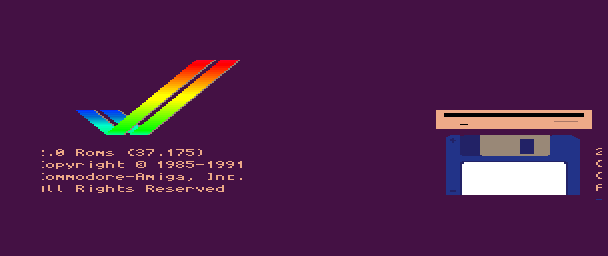
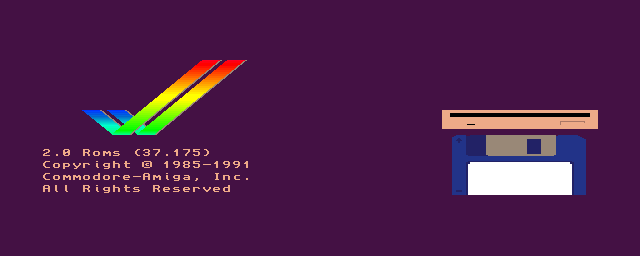
Fix hires text shift by switching to deferred copybpl model
The KS 2.04 boot screen showed ":0 Roms" instead of "2.0 Roms" — text
shifted right with left-edge characters wrapping around. The root cause
was incorrect shift register load timing: we barrel-shifted data into
the shift register immediately on BPL1DAT fetch, but real Denise (and
WinUAE) uses a deferred model where BPL1DAT stores data in a holding
latch, and the actual copy happens when a horizontal counter matches
the BPLCON1 scroll value.

Three timing fixes in the Denise comparator:
- Use beam_x directly as comparator phase (not beam_x >> 1 for hires),
  matching WinUAE's hcycle-rate denise_hcounter_cmp
- Tick the comparator on every output call, not just odd beam_x
- Wire up queue_shift_load_from_bpl1dat() instead of trigger_shift_load()

Also fixes hires resolution: each output call now independently composes
both source pixels from the shift pair, writing 4 distinct hires pixels
per CCK instead of 2 doubled pairs. This matches real Denise where the
shift register produces one pixel per hcycle.

Adds boot screenshot tests for KS 2.05 (A600HD) and KS 3.1 (A500).

Entire-Checkpoint: 2cf7335e2fb1

Changed region(s): [[0.6875, 0.4062, 1.0, 0.7812], [0.0625, 0.5625, 0.4062, 0.75], [0.125, 0.2188, 0.4062, 0.5312]]

diff --git a/crates/machine-amiga/tests/boot_kickstart.rs b/crates/machine-amiga/tests/boot_kickstart.rs
@@ -4622,6 +4622,164 @@ fn test_boot_kick204_a500plus_screenshot() {
     }
 }
 
+#[test]
+#[ignore] // Requires real KS 2.05 ROM
+fn test_boot_kick205_a600hd_screenshot() {
+    let ks_path = "../../roms/kick205_37_300_a600hd.rom";
+    let rom = match fs::read(ks_path) {
+        Ok(r) => r,
+        Err(_) => {
+            eprintln!("KS 2.05 ROM not found at {ks_path}, skipping");
+            return;
+        }
+    };
+
+    let mut amiga = Amiga::new_with_config(AmigaConfig {
+        model: AmigaModel::A500Plus,
+        chipset: AmigaChipset::Ecs,
+        region: AmigaRegion::Pal,
+        kickstart: rom,
+    });
+
+    println!(
+        "Reset: SSP=${:08X} PC=${:08X} SR=${:04X}",
+        amiga.cpu.regs.ssp, amiga.cpu.regs.pc, amiga.cpu.regs.sr
+    );
+
+    let total_ticks: u64 = 850_000_000;
+    let report_interval: u64 = 28_375_160;
+    let mut last_report = 0u64;
+
+    for i in 0..total_ticks {
+        amiga.tick();
+
+        if i % 4 != 0 || i - last_report < report_interval {
+            continue;
+        }
+        last_report = i;
+        let elapsed_s = i as f64 / 28_375_160.0;
+        println!(
+            "[{:.1}s] tick={} PC=${:08X} V={} H={}",
+            elapsed_s, i, amiga.cpu.regs.pc, amiga.agnus.vpos, amiga.agnus.hpos,
+        );
+    }
+
+    // Save raster framebuffer screenshot
+    {
+        use machine_amiga::commodore_denise_ocs::ViewportPreset;
+
+        let viewport = amiga
+            .denise
+            .extract_viewport(ViewportPreset::Standard, true, true);
+        let raster_path = std::path::Path::new("../../test_output/amiga_boot_kick205_raster.png");
+        let file = fs::File::create(raster_path).expect("create raster screenshot file");
+        let ref mut w = std::io::BufWriter::new(file);
+        let mut encoder = png::Encoder::new(w, viewport.width, viewport.height);
+        encoder.set_color(png::ColorType::Rgba);
+        encoder.set_depth(png::BitDepth::Eight);
+        let mut writer = encoder.write_header().expect("write raster PNG header");
+        let mut rgba = Vec::with_capacity((viewport.width * viewport.height * 4) as usize);
+        for &pixel in &viewport.pixels {
+            rgba.push(((pixel >> 16) & 0xFF) as u8);
+            rgba.push(((pixel >> 8) & 0xFF) as u8);
+            rgba.push((pixel & 0xFF) as u8);
+            rgba.push(((pixel >> 24) & 0xFF) as u8);
+        }
+        writer
+            .write_image_data(&rgba)
+            .expect("write raster PNG data");
+        println!(
+            "Raster screenshot saved to {} ({}x{})",
+            raster_path.display(),
+            viewport.width,
+            viewport.height
+        );
+    }
+
+    // Sanity: display should be active (BPLEN set in DMACON)
+    println!("DMACON = ${:04X}", amiga.agnus.dmacon);
+    println!("BPLCON0 = ${:04X}", amiga.denise.bplcon0);
+}
+
+#[test]
+#[ignore] // Requires real KS 3.1 ROM
+fn test_boot_kick31_a500_screenshot() {
+    let ks_path = "../../roms/kick31_40_063_a500_a600_a2000.rom";
+    let rom = match fs::read(ks_path) {
+        Ok(r) => r,
+        Err(_) => {
+            eprintln!("KS 3.1 ROM not found at {ks_path}, skipping");
+            return;
+        }
+    };
+
+    let mut amiga = Amiga::new_with_config(AmigaConfig {
+        model: AmigaModel::A500Plus,
+        chipset: AmigaChipset::Ecs,
+        region: AmigaRegion::Pal,
+        kickstart: rom,
+    });
+
+    println!(
+        "Reset: SSP=${:08X} PC=${:08X} SR=${:04X}",
+        amiga.cpu.regs.ssp, amiga.cpu.regs.pc, amiga.cpu.regs.sr
+    );
+
+    let total_ticks: u64 = 850_000_000;
+    let report_interval: u64 = 28_375_160;
+    let mut last_report = 0u64;
+
+    for i in 0..total_ticks {
+        amiga.tick();
+
+        if i % 4 != 0 || i - last_report < report_interval {
+            continue;
+        }
+        last_report = i;
+        let elapsed_s = i as f64 / 28_375_160.0;
+        println!(
+            "[{:.1}s] tick={} PC=${:08X} V={} H={}",
+            elapsed_s, i, amiga.cpu.regs.pc, amiga.agnus.vpos, amiga.agnus.hpos,
+        );
+    }
+
+    // Save raster framebuffer screenshot
+    {
+        use machine_amiga::commodore_denise_ocs::ViewportPreset;
+
+        let viewport = amiga
+            .denise
+            .extract_viewport(ViewportPreset::Standard, true, true);
+        let raster_path = std::path::Path::new("../../test_output/amiga_boot_kick31_raster.png");
+        let file = fs::File::create(raster_path).expect("create raster screenshot file");
+        let ref mut w = std::io::BufWriter::new(file);
+        let mut encoder = png::Encoder::new(w, viewport.width, viewport.height);
+        encoder.set_color(png::ColorType::Rgba);
+        encoder.set_depth(png::BitDepth::Eight);
+        let mut writer = encoder.write_header().expect("write raster PNG header");
+        let mut rgba = Vec::with_capacity((viewport.width * viewport.height * 4) as usize);
+        for &pixel in &viewport.pixels {
+            rgba.push(((pixel >> 16) & 0xFF) as u8);
+            rgba.push(((pixel >> 8) & 0xFF) as u8);
+            rgba.push((pixel & 0xFF) as u8);
+            rgba.push(((pixel >> 24) & 0xFF) as u8);
+        }
+        writer
+            .write_image_data(&rgba)
+            .expect("write raster PNG data");
+        println!(
+            "Raster screenshot saved to {} ({}x{})",
+            raster_path.display(),
+            viewport.width,
+            viewport.height
+        );
+    }
+
+    // Sanity: display should be active (BPLEN set in DMACON)
+    println!("DMACON = ${:04X}", amiga.agnus.dmacon);
+    println!("BPLCON0 = ${:04X}", amiga.denise.bplcon0);
+}
+
 /// Decode and print a copper list from chip RAM.
 fn decode_copper_list(chip_ram: &[u8], start_addr: u32, max_instructions: usize) {
     let mut addr = start_addr;

diff --git a/crates/commodore-denise-ocs/src/lib.rs b/crates/commodore-denise-ocs/src/lib.rs
@@ -31,6 +31,10 @@ pub struct DeniseOutputPixelDebug {
     pub pair_samples: [DeniseSourcePixelDebug; 2],
     pub plane_bits_mask: u8,
     pub final_color_idx: u8,
+    /// In hires mode, the two independently-composed color indices for the
+    /// pair of source pixels shifted out during this output call. In lores
+    /// mode, both entries are set to `final_color_idx`.
+    pub hires_pair_color_idx: [u8; 2],
     pub playfield_visible_gate: bool,
 }
 
@@ -528,21 +532,6 @@ impl DeniseOcs {
         self.clxdat |= bits;
     }
 
-    fn sprite_has_priority_over_playfield(
-        &self,
-        sprite_group: usize,
-        playfield: PlayfieldId,
-    ) -> bool {
-        // PFxP2..PFxP0 select playfield placement among the four sprite
-        // priority groups. Values >4 are invalid; clamp.
-        let pf_pos = match playfield {
-            PlayfieldId::Pf1 => usize::from(self.bplcon2 & 0x0007),
-            PlayfieldId::Pf2 => usize::from((self.bplcon2 >> 3) & 0x0007),
-        }
-        .min(4);
-        sprite_group < pf_pos
-    }
-
     fn compose_playfield_pixel(
         &self,
         raw_color_idx: usize,
@@ -903,18 +892,14 @@ impl DeniseOcs {
         let mut pf1_code = 0u8;
         let mut pf2_code = 0u8;
         let mut plane_bits_mask = 0u8;
-        // Denise's horizontal comparator (`denise_hcounter_cmp` in WinUAE) is
-        // a CCK-rate counter, not a half-CCK/subpixel counter. In this model
-        // `beam_x` advances twice per CCK, so use `beam_x >> 1` for BPLCON1
+        // Denise's horizontal comparator (`denise_hcounter_cmp` in WinUAE)
+        // increments once per hcycle. In our model `beam_x` advances once per
+        // output call (= once per hcycle), so use it directly as the BPLCON1
         // pending-load comparator phase.
-        let comparator_phase = if hires {
-            (beam_x >> 1) as u16
-        } else {
-            beam_x as u16
-        };
+        let comparator_phase = beam_x as u16;
 
         let copy_before_shift = hires && denise_experiment_hires_copy_before_shift();
-        let comparator_tick_this_call = !hires || (beam_x & 1) != 0;
+        let comparator_tick_this_call = true;
         if copy_before_shift && comparator_tick_this_call {
             self.apply_pending_shift_load_if_due(comparator_phase);
         }
@@ -946,6 +931,9 @@ impl DeniseOcs {
             self.apply_pending_shift_load_if_due(comparator_phase);
         }
 
+        // Compose playfield pixel for the "last" sample (used for final_color_idx
+        // and lores output). In hires mode we also compose the first sample
+        // independently for the per-pixel hires_pair_color_idx.
         let playfield = if playfield_visible_gate {
             self.compose_playfield_pixel(raw_color_idx, pf1_code, pf2_code)
         } else {
@@ -963,17 +951,45 @@ impl DeniseOcs {
             },
             sprite_group_mask,
         );
-        let mut color_idx = playfield.visible_color_idx;
-        if let Some(sprite_pixel) = self.sprite_pixel(beam_x, beam_y) {
-            if let Some(front_pf) = playfield.front_playfield {
-                if self.sprite_has_priority_over_playfield(sprite_pixel.sprite_group, front_pf) {
-                    color_idx = sprite_pixel.palette_idx;
+
+        // Sprite lookup (lores resolution — same sprite for both hires sub-pixels).
+        let sprite_pixel = self.sprite_pixel(beam_x, beam_y);
+
+        // Cache BPLCON2 priority positions for sprite resolution (avoids
+        // re-borrowing &self through a closure while &mut self is live).
+        let bplcon2 = self.bplcon2;
+
+        let resolve_sprite_priority = |pf: &PlayfieldPixel, sp: &Option<SpritePixel>| -> usize {
+            let mut c = pf.visible_color_idx;
+            if let Some(s) = sp {
+                if let Some(front_pf) = pf.front_playfield {
+                    let pf_pos = match front_pf {
+                        PlayfieldId::Pf1 => usize::from(bplcon2 & 0x0007),
+                        PlayfieldId::Pf2 => usize::from((bplcon2 >> 3) & 0x0007),
+                    }
+                    .min(4);
+                    if s.sprite_group < pf_pos {
+                        c = s.palette_idx;
+                    }
+                } else {
+                    c = s.palette_idx;
                 }
-            } else {
-                // Background/COLOR00 only; sprite is visible.
-                color_idx = sprite_pixel.palette_idx;
             }
-        }
+            c
+        };
+
+        let color_idx = resolve_sprite_priority(&playfield, &sprite_pixel);
+
+        // In hires, compose both source pixels independently for full-res output.
+        let hires_pair_color_idx = if hires && playfield_visible_gate {
+            let (raw0, pf1_0, pf2_0) = pair_samples[0];
+            let pf0 = self.compose_playfield_pixel(raw0, pf1_0, pf2_0);
+            let c0 = resolve_sprite_priority(&pf0, &sprite_pixel);
+            let c1 = resolve_sprite_priority(&playfield, &sprite_pixel);
+            [c0 as u8, c1 as u8]
+        } else {
+            [color_idx as u8, color_idx as u8]
+        };
 
         DeniseOutputPixelDebug {
             called: true,
@@ -986,6 +1002,7 @@ impl DeniseOcs {
             pair_samples: pair_samples_debug,
             plane_bits_mask,
             final_color_idx: color_idx as u8,
+            hires_pair_color_idx,
             playfield_visible_gate,
         }
     }

diff --git a/crates/machine-amiga/src/lib.rs b/crates/machine-amiga/src/lib.rs
@@ -501,18 +501,29 @@ impl Amiga {
             );
 
             // --- Raster framebuffer writes ---
+            // Each output call produces two independently-composed hires
+            // sub-pixels via `hires_pair_color_idx`. Write all 4 distinct
+            // hires pixels per CCK (2 per output call × 2 calls).
             {
-                let raster_color0 = commodore_denise_ocs::DeniseOcs::rgb12_to_argb32(
-                    self.denise.palette[pixel0_debug.final_color_idx as usize],
+                let pair0 = pixel0_debug.hires_pair_color_idx;
+                let rc0a = commodore_denise_ocs::DeniseOcs::rgb12_to_argb32(
+                    self.denise.palette[pair0[0] as usize],
                 );
-                self.denise.write_raster_pixel(hpos, vpos, 0, raster_color0);
-                self.denise.write_raster_pixel(hpos, vpos, 1, raster_color0);
+                let rc0b = commodore_denise_ocs::DeniseOcs::rgb12_to_argb32(
+                    self.denise.palette[pair0[1] as usize],
+                );
+                self.denise.write_raster_pixel(hpos, vpos, 0, rc0a);
+                self.denise.write_raster_pixel(hpos, vpos, 1, rc0b);
 
-                let raster_color1 = commodore_denise_ocs::DeniseOcs::rgb12_to_argb32(
-                    self.denise.palette[pixel1_debug.final_color_idx as usize],
+                let pair1 = pixel1_debug.hires_pair_color_idx;
+                let rc1a = commodore_denise_ocs::DeniseOcs::rgb12_to_argb32(
+                    self.denise.palette[pair1[0] as usize],
                 );
-                self.denise.write_raster_pixel(hpos, vpos, 2, raster_color1);
-                self.denise.write_raster_pixel(hpos, vpos, 3, raster_color1);
+                let rc1b = commodore_denise_ocs::DeniseOcs::rgb12_to_argb32(
+                    self.denise.palette[pair1[1] as usize],
+                );
+                self.denise.write_raster_pixel(hpos, vpos, 2, rc1a);
+                self.denise.write_raster_pixel(hpos, vpos, 3, rc1b);
             }
 
             // --- DMA slots ---
@@ -540,7 +551,7 @@ impl Amiga {
                 self.agnus.bpl_pt[idx] = addr.wrapping_add(2);
                 if plane == 0 {
                     fetched_plane_0 = true;
-                    self.denise.trigger_shift_load();
+                    self.denise.queue_shift_load_from_bpl1dat();
                 }
             } else if bus_plan.copper_dma_slot_granted {
                 let copper_used_chip_bus_cell = std::cell::Cell::new(false);
